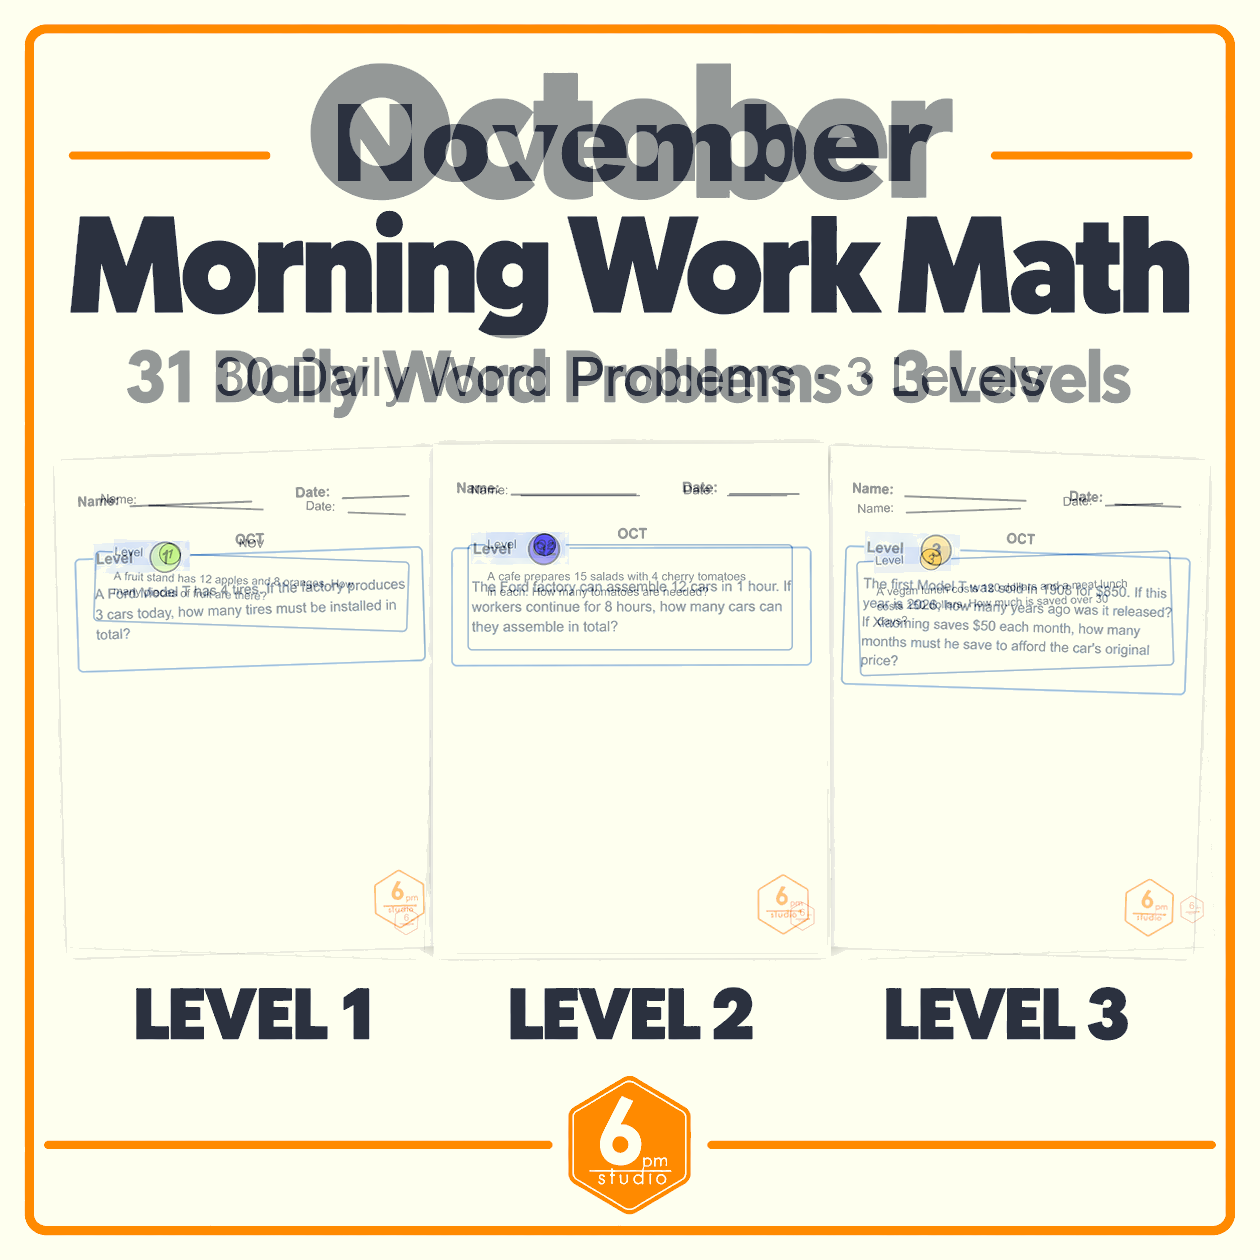
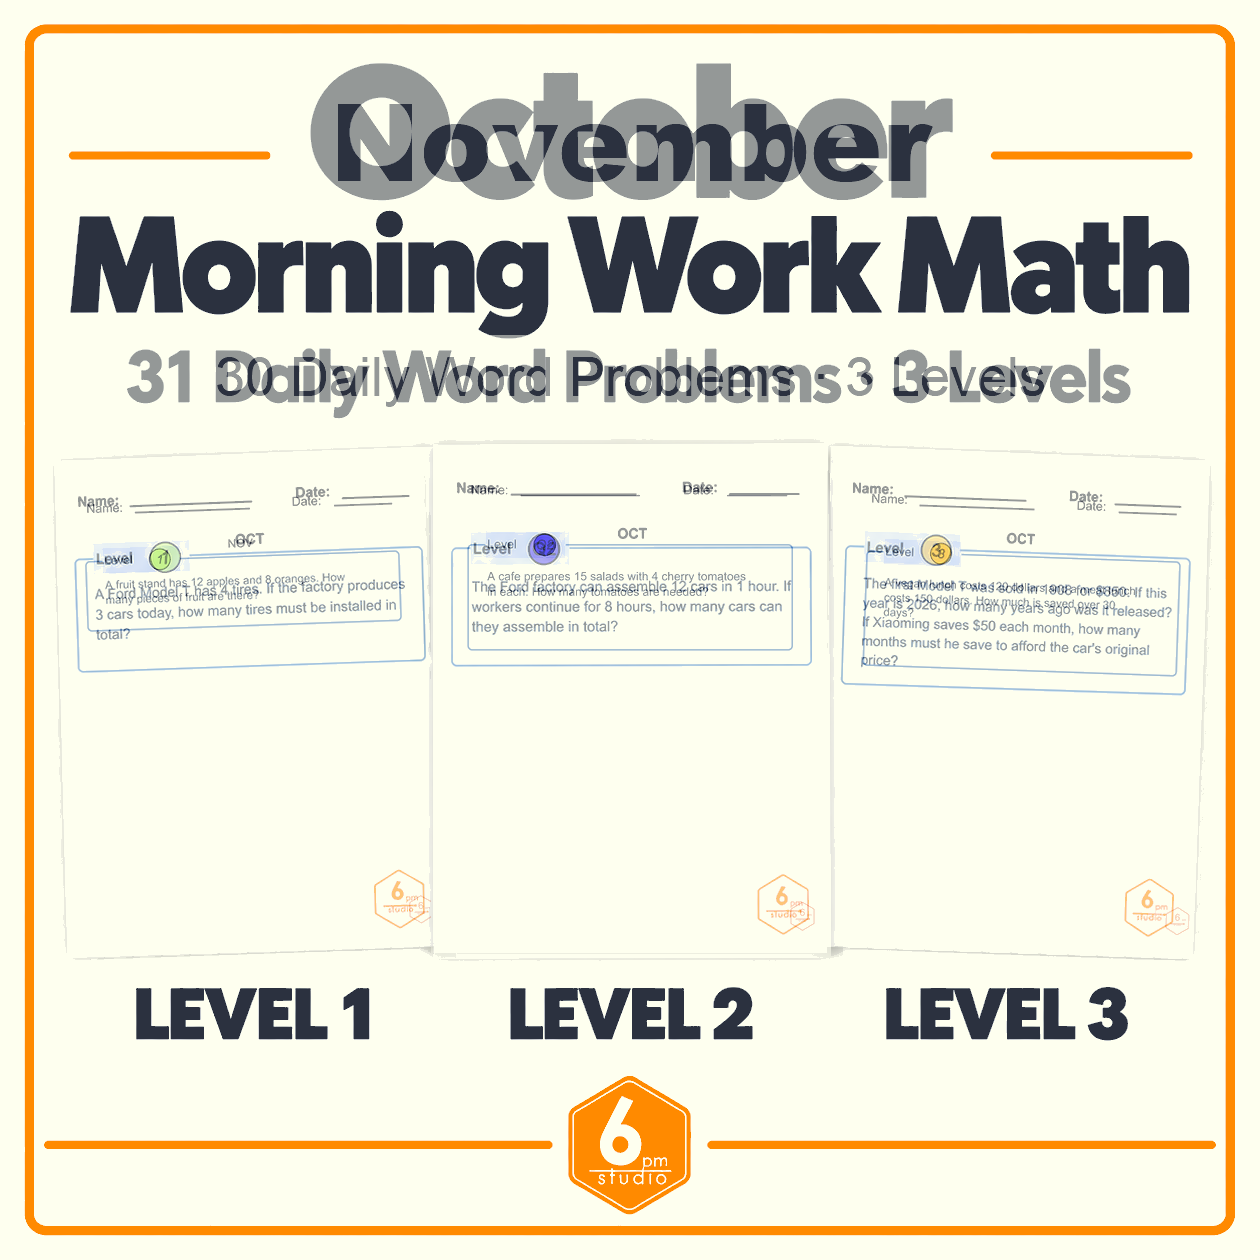
Fix November different-math fan orientation

diff --git a/scripts/generate_monthly_thumbnails.py b/scripts/generate_monthly_thumbnails.py
@@ -365,9 +365,12 @@ def compose_different_math(month, day_count, pages, out):
         draw.rectangle(box, fill=BG)
 
     cards = [
-        ("level1", 243, 704, 376, 495, -2.0),
+        # Pillow's positive angle tilts the top edge upward to the right.
+        # The October reference fans outward: the left sheet rises toward
+        # the center and the right sheet falls toward the center.
+        ("level1", 243, 704, 376, 495, 2.0),
         ("level2", 629, 698, 396, 510, 0.0),
-        ("level3", 1015, 704, 379, 495, 2.0),
+        ("level3", 1015, 704, 379, 495, -2.0),
     ]
     for key, cx, cy, width, height, angle in cards:
         worksheet = Image.new("RGBA", (width + 32, height + 32), (0, 0, 0, 0))
